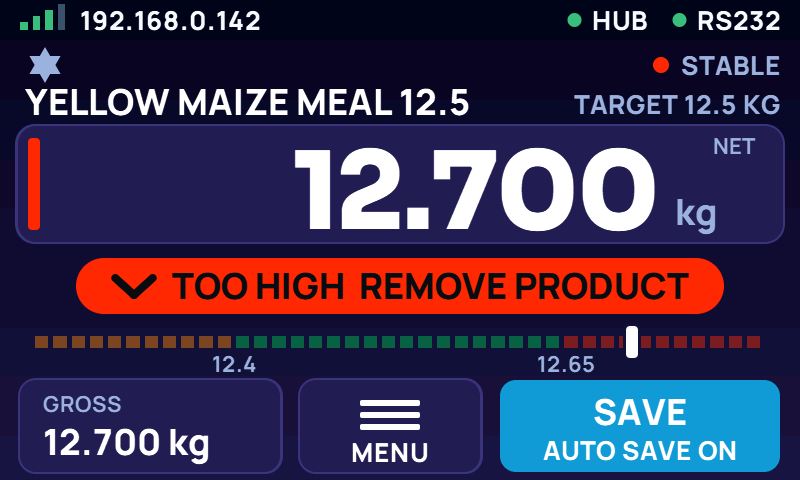
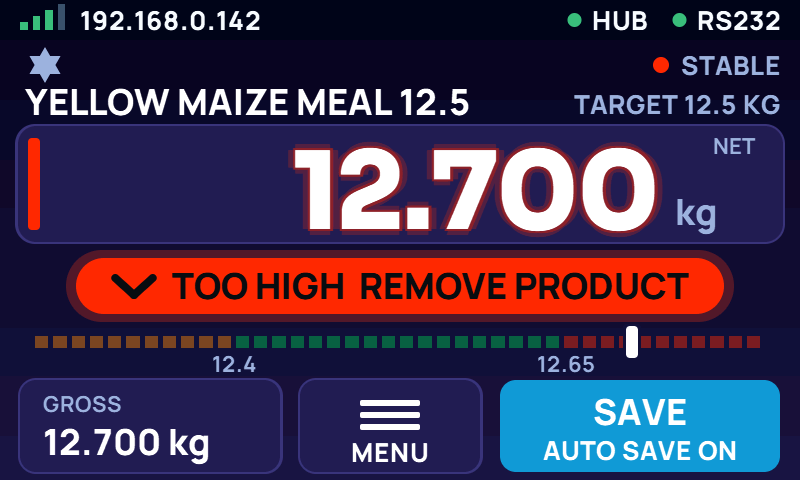
feat(wsoft-ui): Aurora glow round the weight and the pill
Rhyno's pick (22 Nov 2026, mock-up screenshot): the numbers glow in the zone
colour and the pill has a soft halo. Drawn as offset copies and a wider
rounded rect, so the yellow board needs no blur.

Claude-Session: https://claude.ai/code/session_017CMFYso2TL2A6k5GrQCT9v

Changed region(s): [[0.0625, 0.2812, 0.9375, 0.625], [0.0938, 0.625, 0.9062, 0.6875]]

diff --git a/interface/src/project/wsoft/gen/wsoftScreen.js b/interface/src/project/wsoft/gen/wsoftScreen.js
@@ -602,7 +602,11 @@ const WsoftUi = (() => {
     // Aurora's card: the weight sits inside it with room to spare.
     if (m.zone !== ZONE_NONE && colourSet(m, T).card) {
       c.text(m.label, 302, 73, TINY, soft, RIGHT);
-      c.text(m.weight, 264, 94, c.width(m.weight, HERO) <= 236 ? HERO : BIG, ink, RIGHT);
+      // A soft glow of the zone colour round the numbers (Rhyno, 22 Nov 2026).
+      const role = c.width(m.weight, HERO) <= 236 ? HERO : BIG, P = colourSet(m, T), halo = blend(P.w_bg, P.strip, 55), core = blend(P.w_bg, P.strip, 120);
+      for (const [dx, dy] of [[-3, 0], [3, 0], [0, -3], [0, 3]]) c.text(m.weight, 264 + dx, 94 + dy, role, halo, RIGHT);
+      for (const [dx, dy] of [[-1, -1], [1, -1], [-1, 1], [1, 1]]) c.text(m.weight, 264 + dx, 94 + dy, role, core, RIGHT);
+      c.text(m.weight, 264, 94, role, ink, RIGHT);
       c.text(m.unit, 270, 106, MID, soft, LEFT);
       return;
     }
@@ -630,7 +634,10 @@ const WsoftUi = (() => {
     const pw = c.width(words, role) + 52, px = 160 - pw / 2;
     // The band is as tall as the pill when the plate needs its line under it.
     if (P.band) { const bh = plateOn(m) ? 28 : 34; c.rect(0, wy - bh / 2, 320, bh, P.pill, 0); }
-    else c.rect(px, wy - 14, pw, 28, P.pill, -1);
+    else {
+      if (P.card) c.rect(px - 4, wy - 18, pw + 8, 36, blend(P.bg, P.pill, 70), -1);
+      c.rect(px, wy - 14, pw, 28, P.pill, -1);
+    }
     paintSign(c, m.zone, px + 23, wy, P.pill_ink);
     c.text(words, px + 38, wy, role, P.pill_ink, LEFT);
     if (plateOn(m)) c.text(c.fit(m.product + '   ' + m.target, SMALL, 300), 160, 160, SMALL, P.soft, CENTER);

diff --git a/tools/wsoft-ui/ref.js b/tools/wsoft-ui/ref.js
@@ -600,7 +600,11 @@ const WsoftUi = (() => {
     // Aurora's card: the weight sits inside it with room to spare.
     if (m.zone !== ZONE_NONE && colourSet(m, T).card) {
       c.text(m.label, 302, 73, TINY, soft, RIGHT);
-      c.text(m.weight, 264, 94, c.width(m.weight, HERO) <= 236 ? HERO : BIG, ink, RIGHT);
+      // A soft glow of the zone colour round the numbers (Rhyno, 22 Nov 2026).
+      const role = c.width(m.weight, HERO) <= 236 ? HERO : BIG, P = colourSet(m, T), halo = blend(P.w_bg, P.strip, 55), core = blend(P.w_bg, P.strip, 120);
+      for (const [dx, dy] of [[-3, 0], [3, 0], [0, -3], [0, 3]]) c.text(m.weight, 264 + dx, 94 + dy, role, halo, RIGHT);
+      for (const [dx, dy] of [[-1, -1], [1, -1], [-1, 1], [1, 1]]) c.text(m.weight, 264 + dx, 94 + dy, role, core, RIGHT);
+      c.text(m.weight, 264, 94, role, ink, RIGHT);
       c.text(m.unit, 270, 106, MID, soft, LEFT);
       return;
     }
@@ -628,7 +632,10 @@ const WsoftUi = (() => {
     const pw = c.width(words, role) + 52, px = 160 - pw / 2;
     // The band is as tall as the pill when the plate needs its line under it.
     if (P.band) { const bh = plateOn(m) ? 28 : 34; c.rect(0, wy - bh / 2, 320, bh, P.pill, 0); }
-    else c.rect(px, wy - 14, pw, 28, P.pill, -1);
+    else {
+      if (P.card) c.rect(px - 4, wy - 18, pw + 8, 36, blend(P.bg, P.pill, 70), -1);
+      c.rect(px, wy - 14, pw, 28, P.pill, -1);
+    }
     paintSign(c, m.zone, px + 23, wy, P.pill_ink);
     c.text(words, px + 38, wy, role, P.pill_ink, LEFT);
     if (plateOn(m)) c.text(c.fit(m.product + '   ' + m.target, SMALL, 300), 160, 160, SMALL, P.soft, CENTER);

diff --git a/test/test_wsoft_ui/golden.h b/test/test_wsoft_ui/golden.h
@@ -4,5 +4,5 @@
 
 #include <stdint.h>
 
-static const uint32_t GOLDEN_1X[] = {0x2EED3E39, 0xCB8630B6, 0x13C357CE, 0x1EF07A5D, 0x0CD5396A, 0xB3EDC79C, 0x4042B08A, 0x0169D3E2, 0x91E90C57, 0xFDF178CC, 0x9669DC47, 0x26D96EE3, 0x205B387A, 0xC8444119, 0x2D1F0669, 0x6BB1E900, 0x1E099634, 0xA7C846C0, 0x29F2D94F, 0x217565AE, 0xFFB61478, 0xCE17ED72, 0x29601460, 0x91CC4766, 0xC81A18F3, 0x2245DA02, 0xA5CD9DD1, 0x590DC4BD, 0x05029EC6, 0x8EE9EB70, 0x8A346D5C, 0xD86A7B1D, 0x494F1033, 0x0194CF37, 0x7B7A81E0, 0x8DD236A1, 0x38851DCF, 0xBD04EBC5, 0x8A6FF48C, 0x97CC09C8, 0x55A34D7F, 0x2A4D5EA5, 0x3817A669, 0xFBD72C38, 0xD09FC023, 0xCDD0EA2C, 0x06F4267C, 0x281FAB58, 0xA081F4C9, 0xCA67513E, 0x155F0C53, 0xB209D8DE, 0x9D2A6727, 0x83ECA318, 0x474DA559, 0xCD87CF7F};
-static const uint32_t GOLDEN_2X[] = {0x2CB597FA, 0xEE8355B3, 0x3DF3B986, 0xBB07AA83, 0x561022F2, 0x8AF27F6C, 0x087B2AE7, 0x6FA89258, 0x856FCB6E, 0x328374DB, 0x0C066F48, 0x8241D678, 0xCC0B4B47, 0x1A5164EE, 0x7C95CEA0, 0x3A34EC60, 0x63F98DCA, 0x6F641277, 0x9B7D4A8C, 0x3944787F, 0x54E248B5, 0x40334849, 0x7E49473E, 0x69F2874B, 0x1A43A21B, 0xA003525E, 0xAD3C0C0B, 0x180C86C7, 0x52E5D48C, 0x8C5406E1, 0x99AF5273, 0x1FF7CBDA, 0xCAA17410, 0x7F1B5A71, 0x513400BD, 0x6369FCAA, 0x005A69F9, 0x9E6B1D74, 0x2357EC97, 0x31DC200B, 0x091BCA9E, 0x1912BD4B, 0x5AFF1D91, 0x605D8B1D, 0x0C1DE447, 0xCD0E739D, 0x4114731D, 0xF62E3E54, 0xEF58C3AE, 0x4D9B6EF7, 0x07E42EB8, 0x3B1B2A93, 0x693C7C78, 0x34FE74E9, 0x78B24497, 0xFFE3EF41};
+static const uint32_t GOLDEN_1X[] = {0x2EED3E39, 0xCB8630B6, 0x13C357CE, 0x1EF07A5D, 0x0CD5396A, 0xB3EDC79C, 0x4042B08A, 0x0169D3E2, 0x91E90C57, 0xFDF178CC, 0x9669DC47, 0x26D96EE3, 0x205B387A, 0xC8444119, 0x2D1F0669, 0x6BB1E900, 0x1E099634, 0xA7C846C0, 0x29F2D94F, 0x217565AE, 0xFFB61478, 0xCE17ED72, 0x29601460, 0x91CC4766, 0xC81A18F3, 0x2245DA02, 0xA5CD9DD1, 0x590DC4BD, 0x348DD9B5, 0xC7C05F26, 0x91604E14, 0x9143CF4B, 0x8F0AD434, 0x301B8844, 0x7B7A81E0, 0xA4D2F3BD, 0xD1BBC01F, 0xBD04EBC5, 0x8A6FF48C, 0x97CC09C8, 0x55A34D7F, 0x2A4D5EA5, 0x3817A669, 0xFBD72C38, 0xD09FC023, 0xCDD0EA2C, 0x06F4267C, 0xA1297F5A, 0xA081F4C9, 0xCA67513E, 0x155F0C53, 0xB209D8DE, 0x9D2A6727, 0xB3AC8B8F, 0x474DA559, 0xCD87CF7F};
+static const uint32_t GOLDEN_2X[] = {0x2CB597FA, 0xEE8355B3, 0x3DF3B986, 0xBB07AA83, 0x561022F2, 0x8AF27F6C, 0x087B2AE7, 0x6FA89258, 0x856FCB6E, 0x328374DB, 0x0C066F48, 0x8241D678, 0xCC0B4B47, 0x1A5164EE, 0x7C95CEA0, 0x3A34EC60, 0x63F98DCA, 0x6F641277, 0x9B7D4A8C, 0x3944787F, 0x54E248B5, 0x40334849, 0x7E49473E, 0x69F2874B, 0x1A43A21B, 0xA003525E, 0xAD3C0C0B, 0x180C86C7, 0xC9CC2C59, 0x8DA7A98B, 0xD2A470AE, 0x1E0464B0, 0xF6FDF021, 0xE432A2A4, 0x513400BD, 0x2BD78FD9, 0x767352B8, 0x9E6B1D74, 0x2357EC97, 0x31DC200B, 0x091BCA9E, 0x1912BD4B, 0x5AFF1D91, 0x605D8B1D, 0x0C1DE447, 0xCD0E739D, 0x4114731D, 0x0DB2086F, 0xEF58C3AE, 0x4D9B6EF7, 0x07E42EB8, 0x3B1B2A93, 0x693C7C78, 0xF3E93928, 0x78B24497, 0xFFE3EF41};

diff --git a/lib/wsoft_core/src/wsoft_ui_paint.cpp b/lib/wsoft_core/src/wsoft_ui_paint.cpp
@@ -429,7 +429,15 @@ static void paint_weight_colour(WsoftCanvas &c, const WsoftUiModel &m, const The
   // Aurora's card: the weight sits inside it with room to spare.
   if (m.zone != WSOFT_UI_ZONE_NONE && colour_set(m, T).card) {
     c.text(m.label, 302, 73, TINY, soft, WSOFT_RIGHT);
-    c.text(m.weight, 264, 94, c.width(m.weight, HERO) <= 236 ? HERO : BIG, ink, WSOFT_RIGHT);
+    // A soft glow of the zone colour round the numbers (Rhyno, 22 Nov 2026).
+    const int role = c.width(m.weight, HERO) <= 236 ? HERO : BIG;
+    const ColourSet P = colour_set(m, T);
+    const uint16_t halo = wsoft_blend565(P.w_bg, P.strip, 55), core = wsoft_blend565(P.w_bg, P.strip, 120);
+    static const int8_t outer[4][2] = {{-3, 0}, {3, 0}, {0, -3}, {0, 3}};
+    static const int8_t inner[4][2] = {{-1, -1}, {1, -1}, {-1, 1}, {1, 1}};
+    for (const auto &o : outer) c.text(m.weight, 264 + o[0], 94 + o[1], role, halo, WSOFT_RIGHT);
+    for (const auto &o : inner) c.text(m.weight, 264 + o[0], 94 + o[1], role, core, WSOFT_RIGHT);
+    c.text(m.weight, 264, 94, role, ink, WSOFT_RIGHT);
     c.text(m.unit, 270, 106, MID, soft);
     return;
   }
@@ -462,7 +470,10 @@ static void paint_hilo_colour(WsoftCanvas &c, const WsoftUiModel &m, const Theme
     double bh = plate_on(m) ? 28 : 34;
     c.rect(0, wy - bh / 2, 320, bh, P.pill);
   }
-  else c.rect(px, wy - 14, pw, 28, P.pill, -1);
+  else {
+    if (P.card) c.rect(px - 4, wy - 18, pw + 8, 36, wsoft_blend565(P.bg, P.pill, 70), -1);
+    c.rect(px, wy - 14, pw, 28, P.pill, -1);
+  }
   paint_sign(c, m.zone, px + 23, wy, P.pill_ink);
   c.text(words, px + 38, wy, role, P.pill_ink);
   if (plate_on(m)) c.text(c.fit(product_line(m, line, sizeof line), SMALL, 300, cut, sizeof cut), 160, 160, SMALL, P.soft, WSOFT_CENTER);
